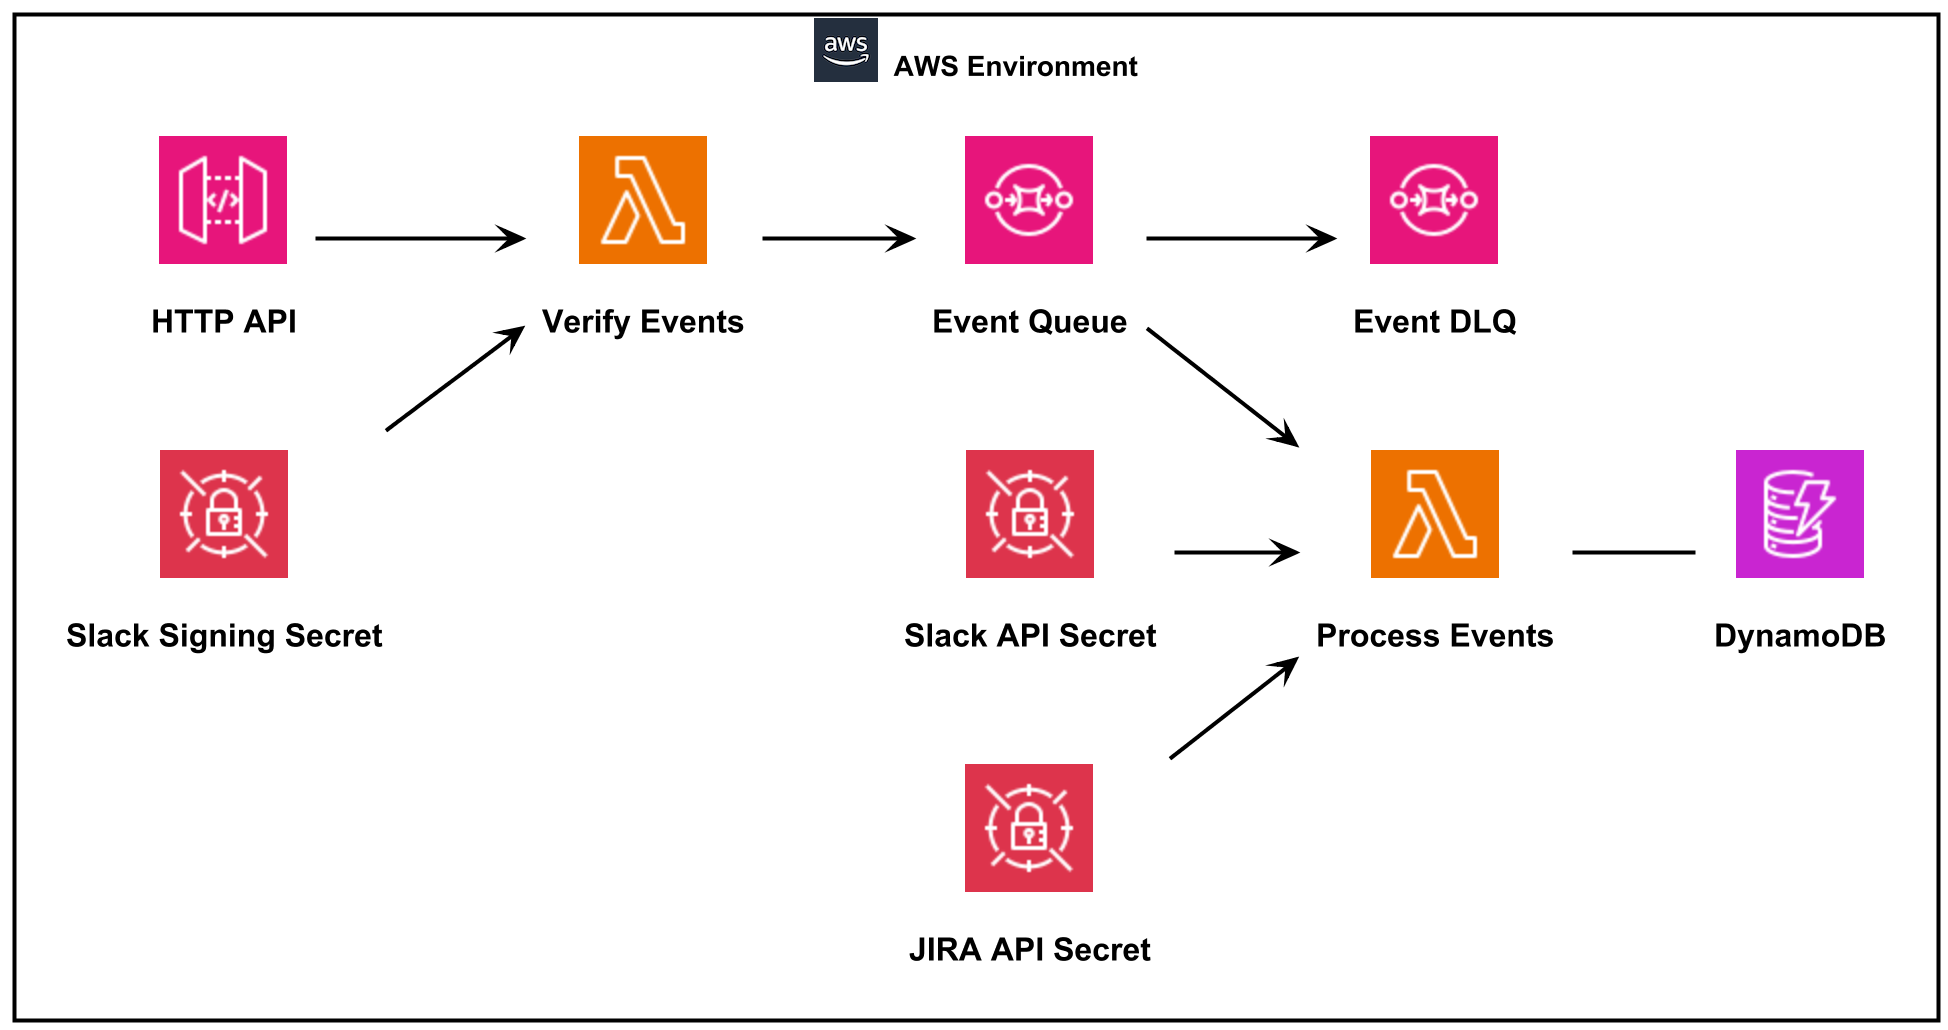
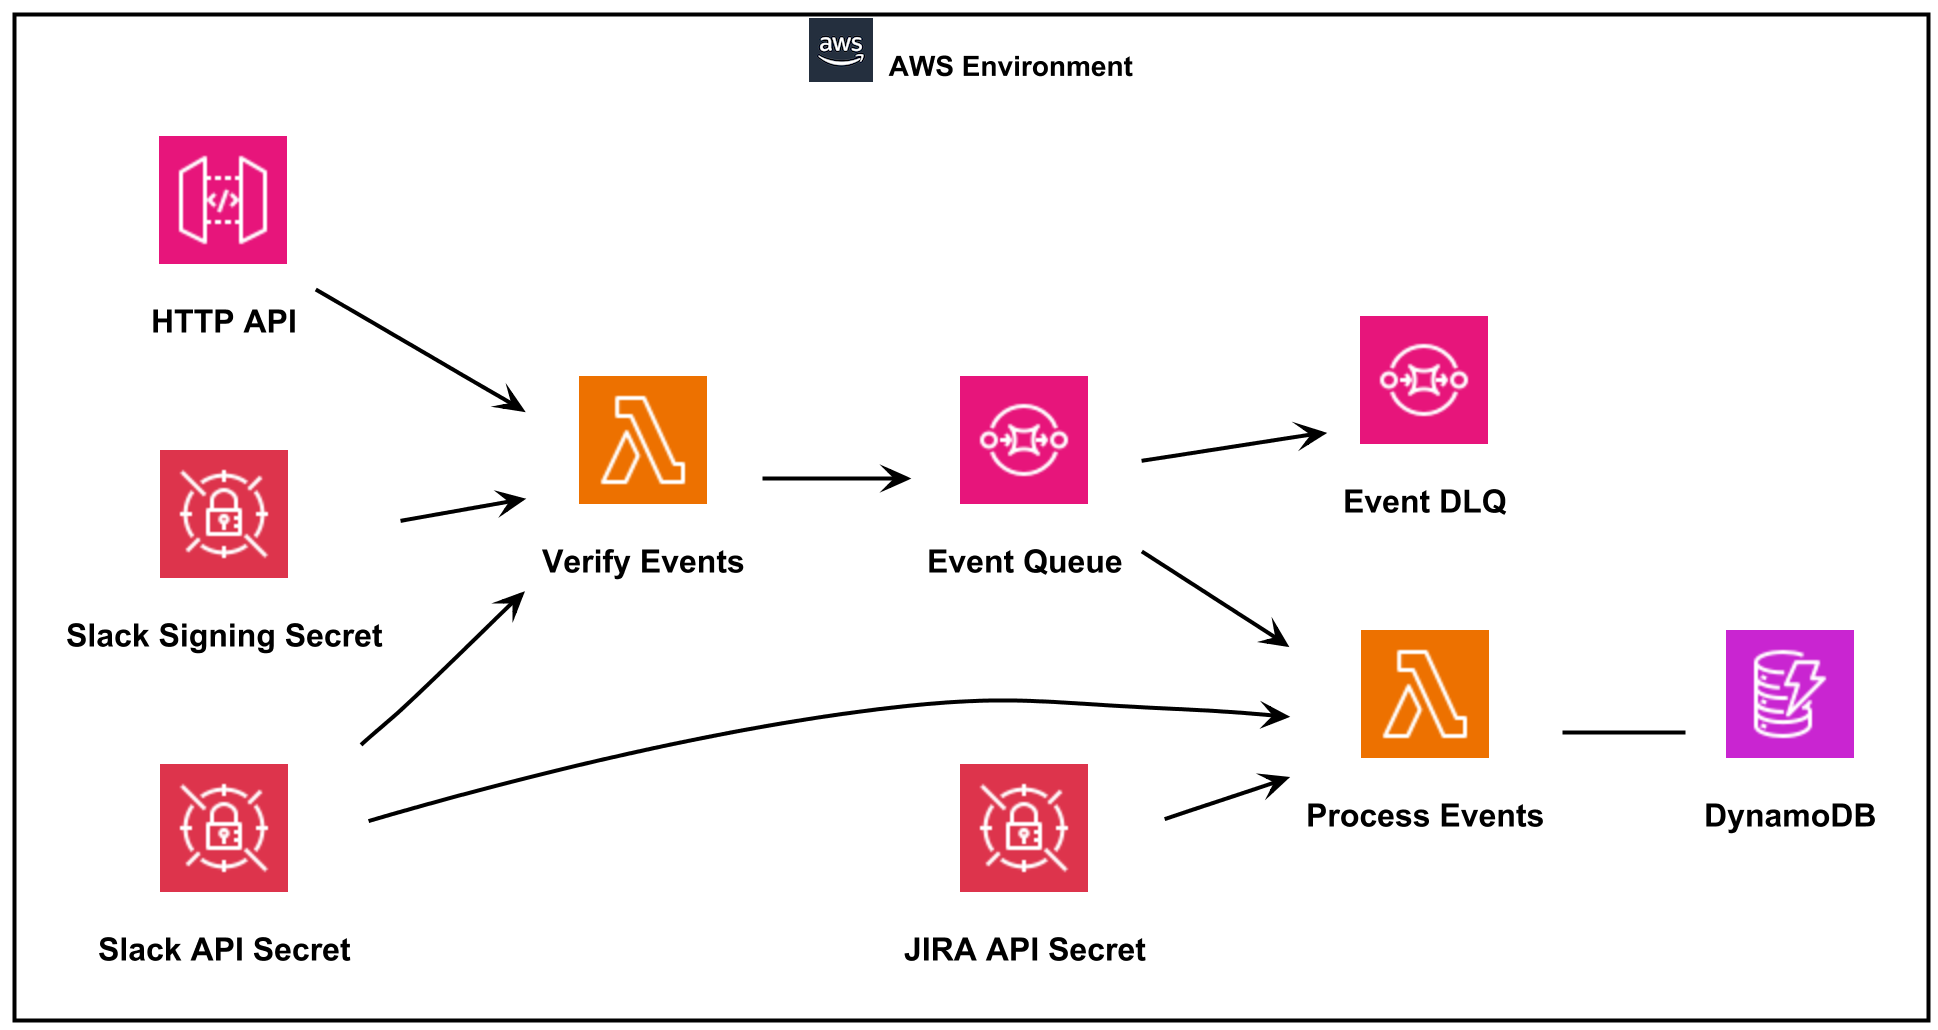
Ignore slack events from the bot itself (#5)
* All events are handled by the lambda, including reactions that the bot
applies itself.
* This could theoretically trigger an infinite loop.
* However, in more practical terms, we need to ignore these events
quickly as they server no functional purpose in the handling itself.

diff --git a/slack_event_verify/tests/test_slack_event_verifier.py b/slack_event_verify/tests/test_slack_event_verifier.py
@@ -1,4 +1,4 @@
-# SPDX-FileCopyrightText: Copyright (c) 2025 NVIDIA CORPORATION & AFFILIATES. All rights reserved.
+# SPDX-FileCopyrightText: Copyright (c) 2025-2026 NVIDIA CORPORATION & AFFILIATES. All rights reserved.
 # SPDX-License-Identifier: Apache-2.0
 #
 # Licensed under the Apache License, Version 2.0 (the "License");
@@ -53,6 +53,8 @@ SIGNING_SECRET_ID = 'test-signing-secret'
 SIGNING_SECRET_VALUE = 'test_signing_secret_value'
 SQS_QUEUE_NAME = 'test-queue.fifo'
 SQS_QUEUE_URL = f'https://sqs.us-east-1.amazonaws.com/123456789012/{SQS_QUEUE_NAME}'
+
+BOT_ID = 'UBOT123'
 
 
 def create_slack_signature(body: str, signing_secret: str, timestamp: Optional[str] = None) -> str:
@@ -112,7 +114,9 @@ def aws_setup():
 
 @pytest.fixture
 def slack_sdk_wrapper():
-    return SlackSdkWrapper()
+    wrapper = SlackSdkWrapper()
+    wrapper.bot_id = BOT_ID
+    return wrapper
 
 
 @pytest.fixture(autouse=True)
@@ -164,6 +168,7 @@ class EventType(Enum):
 class MockEvent:
     event_type: EventType = field(default=EventType.INVALID)
     event_dict: Dict[str, Any] = field(default_factory=dict)
+    user: Optional[str] = None
 
 
 @dataclass
@@ -182,6 +187,9 @@ class MockAppMentionEvent(MockEvent):
             'text': self.text,
             'type': self.event_type.value,
         }
+        if self.user is not None:
+            self.event_dict['user'] = self.user
+
         self.event_dict = {k: v for k, v in self.event_dict.items() if v is not None}
 
 
@@ -198,6 +206,8 @@ class MockReactionAddedEvent(MockEvent):
             'item': {'channel': self.channel, 'ts': self.ts},
             'type': self.event_type.value,
         }
+        if self.user is not None:
+            self.event_dict['user'] = self.user
 
         self.event_dict['item'] = {
             k: v for k, v in self.event_dict['item'].items() if v is not None
@@ -568,3 +578,39 @@ def test_verify_message_sent(sqs_client, verifier, test_case):
 
     message_body = json.loads(messages['Messages'][0]['Body'])
     assert message_body == json.loads(test_case.event_obj.to_dict()['body'])
+
+
+def test_verify_event_from_bot_ignored(sqs_client, verifier):
+    event_container = EventContainer(
+        event_obj=MockReactionAddedEvent(
+            user=BOT_ID,
+            reaction=CONFIG['sync_reaction'],
+            channel='C1234567890',
+            ts='1234567890.123456',
+        ),
+    )
+    result = verifier.verify(event_container.to_dict())
+
+    assert result['statusCode'] == 200
+    body_json = json.loads(result['body'])
+    assert body_json['message'] == 'Success'
+
+    messages = sqs_client.receive_message(QueueUrl=SQS_QUEUE_URL)
+    assert 'Messages' not in messages or len(messages['Messages']) == 0
+
+
+def test_verify_event_from_other_user_forwarded(sqs_client, verifier):
+    event_container = EventContainer(
+        event_obj=MockReactionAddedEvent(
+            user='TEST_OTHER_USER_ID',
+            reaction=CONFIG['sync_reaction'],
+            channel='C1234567890',
+            ts='1234567890.123456',
+        ),
+    )
+    result = verifier.verify(event_container.to_dict())
+
+    assert result['statusCode'] == 200
+    messages = sqs_client.receive_message(QueueUrl=SQS_QUEUE_URL)
+    assert 'Messages' in messages
+    assert len(messages['Messages']) == 1

diff --git a/slack_event_verify/slack_event_verify/slack_event_verify_handler.py b/slack_event_verify/slack_event_verify/slack_event_verify_handler.py
@@ -1,4 +1,4 @@
-# SPDX-FileCopyrightText: Copyright (c) 2025 NVIDIA CORPORATION & AFFILIATES. All rights reserved.
+# SPDX-FileCopyrightText: Copyright (c) 2025-2026 NVIDIA CORPORATION & AFFILIATES. All rights reserved.
 # SPDX-License-Identifier: Apache-2.0
 #
 # Licensed under the Apache License, Version 2.0 (the "License");
@@ -34,14 +34,14 @@ from slack_sdk_wrapper import SlackSdkWrapper
 
 from .slack_event_verifier import SlackEventVerifier
 
-SIGNING_SECRET_ID = os.getenv('SIGNING_SECRET_ID', '')
-SQS_QUEUE_URL = os.getenv('SQS_QUEUE_URL', '')
+SIGNING_SECRET_ID = os.environ['SIGNING_SECRET_ID']
+SQS_QUEUE_URL = os.environ['SQS_QUEUE_URL']
+SLACK_TOKEN_ID = os.getenv('SLACK_TOKEN_ID')
 
 logger = logging.getLogger()
 logger.setLevel(level=logging.INFO)
 
 sqs_wrapper = SqsWrapper()
-slack_sdk_wrapper = SlackSdkWrapper()
 secrets_manager_wrapper = SecretsManagerWrapper()
 
 
@@ -57,6 +57,12 @@ def verify(event_: dict, _: Any) -> dict:
         A response dictionary with status code, headers, and body.
     '''
     logger.info(f'Received event: {event_}')
+
+    slack_token = None
+    if SLACK_TOKEN_ID:
+        slack_token = secrets_manager_wrapper.get_secret(SLACK_TOKEN_ID)
+
+    slack_sdk_wrapper = SlackSdkWrapper(slack_token=slack_token)
 
     verifier = SlackEventVerifier(
         slack_sdk_wrapper,

diff --git a/slack_event_verify/slack_event_verify/slack_event_verifier.py b/slack_event_verify/slack_event_verify/slack_event_verifier.py
@@ -1,4 +1,4 @@
-# SPDX-FileCopyrightText: Copyright (c) 2025 NVIDIA CORPORATION & AFFILIATES. All rights reserved.
+# SPDX-FileCopyrightText: Copyright (c) 2025-2026 NVIDIA CORPORATION & AFFILIATES. All rights reserved.
 # SPDX-License-Identifier: Apache-2.0
 #
 # Licensed under the Apache License, Version 2.0 (the "License");
@@ -112,6 +112,18 @@ class SlackEventVerifier:  # pylint: disable=too-few-public-methods
             }
 
         event_dict = body.get('event', {})
+
+        # Any reaction added by the bot by itself triggers an event.
+        # The event will be received by this handler.
+        # This could thereotically lead to an infinite loop,
+        # if the event reacts with the same reaction.
+        # Additionally, events added by the bot by itself are not useful
+        # in the context of this handler.
+        # Therefore, ignore them here.
+        user_id = event_dict.get('user')
+        if self.slack_sdk_wrapper.bot_id and user_id == self.slack_sdk_wrapper.bot_id:
+            logger.info(f'Ignoring event from bot user: {event_dict}')
+            return self.construct_return_data(200, 'application/json', {'message': 'Success'})
 
         try:
             # We don't need to pass in the wrappers.

diff --git a/layer/modules/slack_sdk_wrapper.py b/layer/modules/slack_sdk_wrapper.py
@@ -1,4 +1,4 @@
-# SPDX-FileCopyrightText: Copyright (c) 2025 NVIDIA CORPORATION & AFFILIATES. All rights reserved.
+# SPDX-FileCopyrightText: Copyright (c) 2025-2026 NVIDIA CORPORATION & AFFILIATES. All rights reserved.
 # SPDX-License-Identifier: Apache-2.0
 #
 # Licensed under the Apache License, Version 2.0 (the "License");
@@ -45,6 +45,7 @@ class SlackSdkWrapper:
     ClientException = SlackClientError
 
     def __init__(self, slack_token: Optional[str] = None) -> None:
+        self.bot_id = None
         if slack_token:
             self.client = WebClient(token=slack_token)
             self.bot_id = self.client.auth_test()['user_id']
